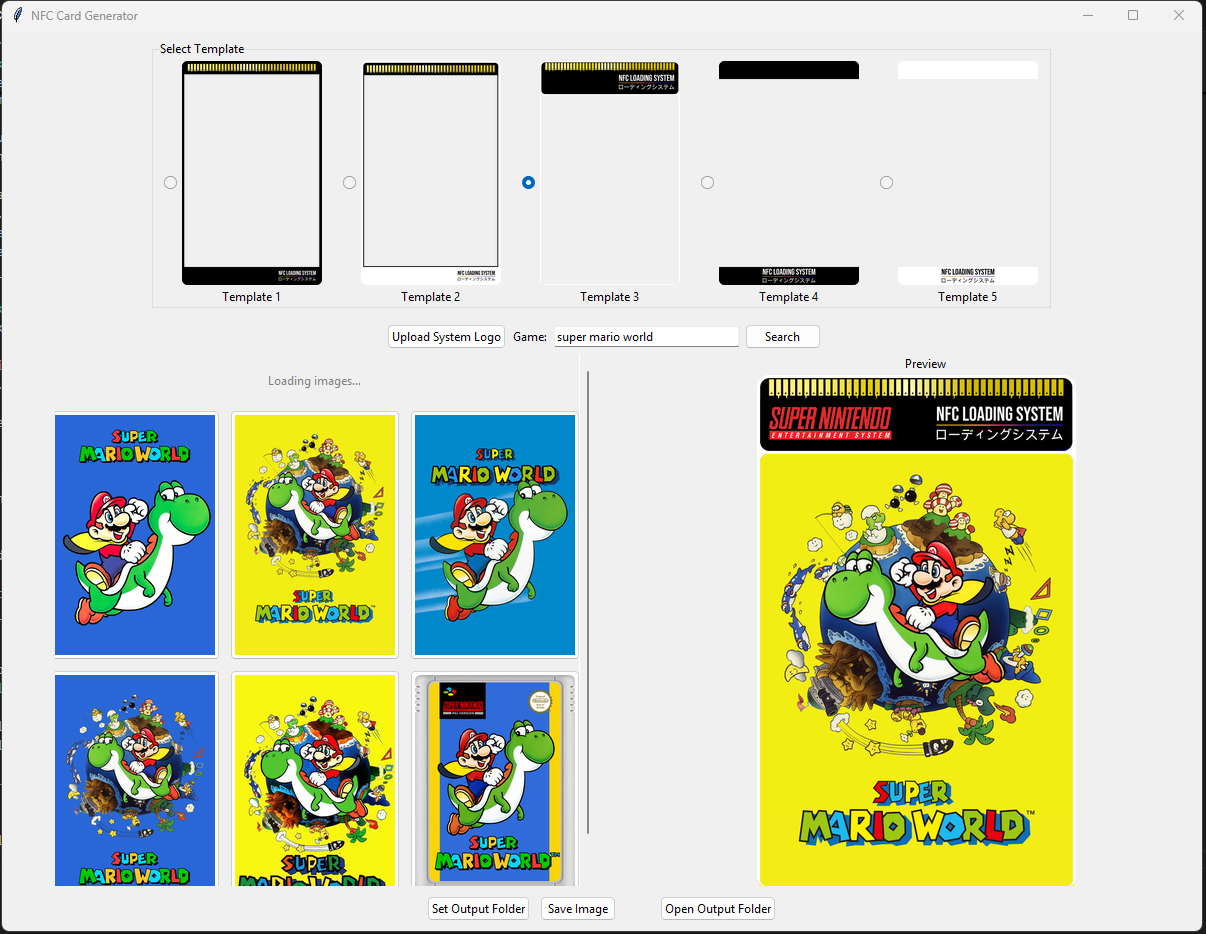
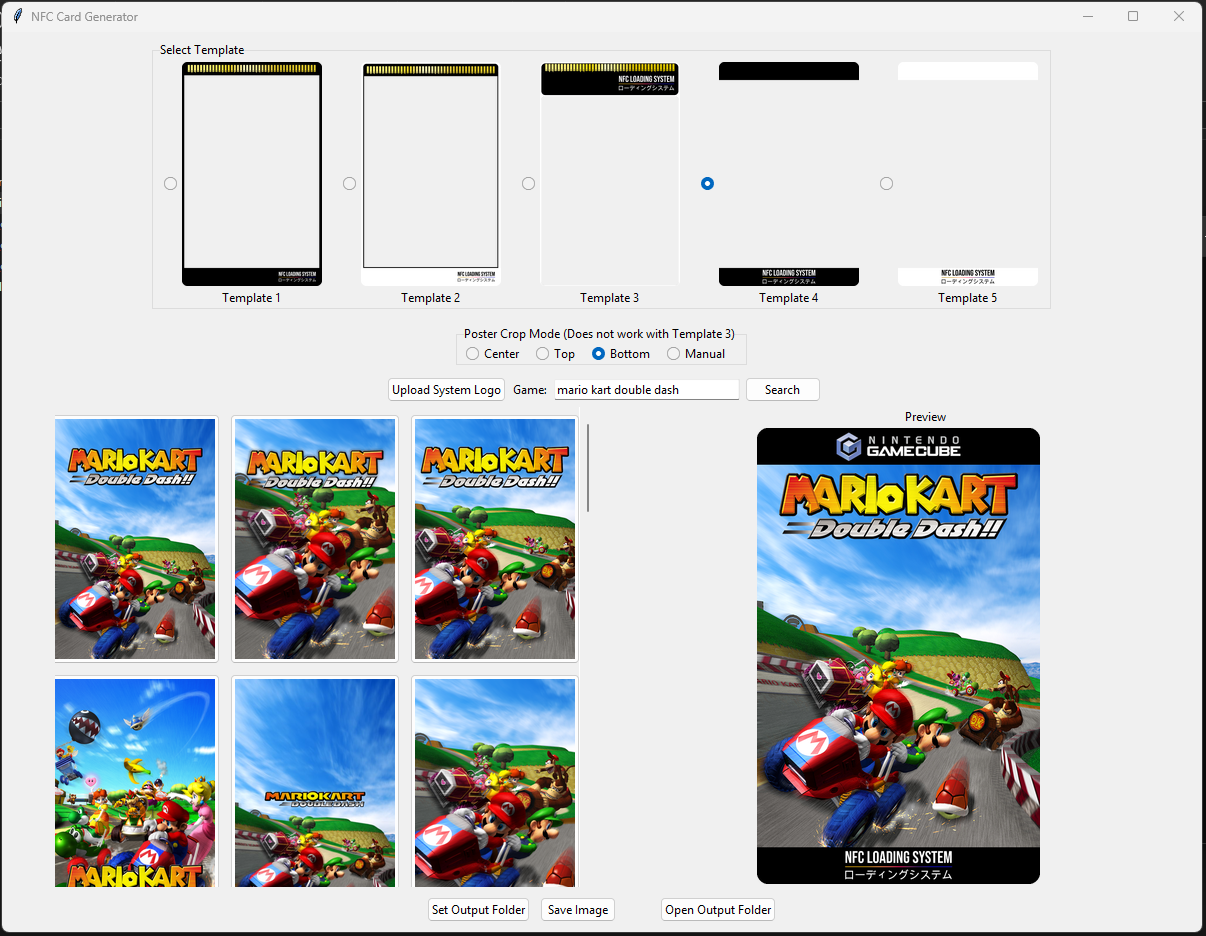
Added Cropping Position Feature
The app now lets you determine the cropping position of the game image.

This does not work yet for Template 3 as template 3 uses a frame because of the rounded corners of the game image. I am working on a fix.

diff --git a/nfc-card-generator.py b/nfc-card-generator.py
@@ -19,7 +19,6 @@ CONFIG_FILE = "config.json"
 CLEAR_W = 609
 CLEAR_H = 840
 
-# Template 4 / 5 exact clear area
 T4_POSTER_W = 619
 T4_POSTER_H = 834
 T4_POSTER_Y = 80
@@ -31,14 +30,12 @@ TEMPLATES = {
         "footer": {"height": 90, "logo_height": 46, "logo_margin": 25},
         "mode": "framed"
     },
-
     "Template 2": {
         "image_path": "templates/template_2.png",
         "center": {"x": 14, "y": 63, "w": 591, "h": 849},
         "footer": {"height": 90, "logo_height": 46, "logo_margin": 25},
         "mode": "framed"
     },
-
     "Template 3": {
         "image_path": "templates/template_3.png",
         "poster_y": 120,
@@ -50,24 +47,14 @@ TEMPLATES = {
         },
         "mode": "layered"
     },
-
-    # TEMPLATE 4 – FINAL (Color Scheme A)
     "Template 4": {
         "image_path": "templates/template_4.png",
-        "header_logo": {
-            "max_height": 62,
-            "top_margin": 10
-        },
+        "header_logo": {"max_height": 62, "top_margin": 10},
         "mode": "framed-top-logo"
     },
-
-    # TEMPLATE 5 – CLONE OF TEMPLATE 4 (Color Scheme B)
     "Template 5": {
         "image_path": "templates/template_5.png",
-        "header_logo": {
-            "max_height": 62,
-            "top_margin": 10
-        },
+        "header_logo": {"max_height": 62, "top_margin": 10},
         "mode": "framed-top-logo"
     }
 }
@@ -139,16 +126,31 @@ def get_grids(game_id):
 
 def cover_image(img, w, h):
     ratio = max(w / img.width, h / img.height)
-    resized = img.resize((int(img.width * ratio), int(img.height * ratio)), Image.LANCZOS)
-    x = (resized.width - w) // 2
-    y = (resized.height - h) // 2
-    return resized.crop((x, y, x + w, y + h))
+    r = img.resize((int(img.width * ratio), int(img.height * ratio)), Image.LANCZOS)
+    x = (r.width - w) // 2
+    y = (r.height - h) // 2
+    return r.crop((x, y, x + w, y + h))
 
-def cover_image_top_aligned(img, w, h):
+def cover_image_top(img, w, h):
     ratio = max(w / img.width, h / img.height)
-    resized = img.resize((int(img.width * ratio), int(img.height * ratio)), Image.LANCZOS)
-    x = (resized.width - w) // 2
-    return resized.crop((x, 0, x + w, h))
+    r = img.resize((int(img.width * ratio), int(img.height * ratio)), Image.LANCZOS)
+    x = (r.width - w) // 2
+    return r.crop((x, 0, x + w, h))
+
+def cover_image_bottom(img, w, h):
+    ratio = max(w / img.width, h / img.height)
+    r = img.resize((int(img.width * ratio), int(img.height * ratio)), Image.LANCZOS)
+    x = (r.width - w) // 2
+    y = r.height - h
+    return r.crop((x, y, x + w, y + h))
+
+def cover_image_manual(img, w, h, offset):
+    ratio = max(w / img.width, h / img.height)
+    r = img.resize((int(img.width * ratio), int(img.height * ratio)), Image.LANCZOS)
+    x = (r.width - w) // 2
+    max_y = r.height - h
+    y = max(0, min(max_y, int(offset)))
+    return r.crop((x, y, x + w, y + h))
 
 def fit_to_width(img, target_width):
     scale = target_width / img.width
@@ -167,7 +169,7 @@ def apply_header_logo(base, logo_path, cfg):
     h = cfg["header_logo"]
     scale = h["height"] / logo.height
     logo = logo.resize((int(logo.width * scale), h["height"]), Image.LANCZOS)
-    if logo.width > h.get("max_width", logo.width):
+    if logo.width > h["max_width"]:
         scale = h["max_width"] / logo.width
         logo = logo.resize((h["max_width"], int(logo.height * scale)), Image.LANCZOS)
     base.paste(logo, (h["left_margin"], h["top_margin"]), logo)
@@ -194,6 +196,9 @@ class App(tk.Tk):
         self.output_image = None
         self.output_dir = load_output_dir()
         self.template_var = tk.StringVar(value="Template 1")
+        self.crop_mode = tk.StringVar(value="center")
+        self.crop_offset = tk.IntVar(value=0)
+
         self.selected_poster_image = None
         self.current_game_title = None
 
@@ -243,10 +248,7 @@ class App(tk.Tk):
 
         for name, cfg in TEMPLATES.items():
             img = Image.open(cfg["image_path"])
-            img = img.resize(
-                (TEMPLATE_THUMB_W, int(TEMPLATE_THUMB_W * img.height / img.width)),
-                Image.LANCZOS
-            )
+            img = img.resize((TEMPLATE_THUMB_W, int(TEMPLATE_THUMB_W * img.height / img.width)), Image.LANCZOS)
             tk_img = ImageTk.PhotoImage(img)
             self.template_imgs[name] = tk_img
 
@@ -260,8 +262,37 @@ class App(tk.Tk):
                 command=self.render_with_current_template
             ).pack(side="left", padx=8)
 
+    def build_crop_controls(self):
+        frame = ttk.LabelFrame(self, text="Poster Crop Mode (Does not work with Template 3)")
+        frame.pack(pady=6)
+
+        for m in ("center", "top", "bottom", "manual"):
+            ttk.Radiobutton(
+                frame,
+                text=m.capitalize(),
+                value=m,
+                variable=self.crop_mode,
+                command=self.render_with_current_template
+            ).pack(side="left", padx=6)
+
+        self.crop_slider = ttk.Scale(
+            frame,
+            from_=0,
+            to=1000,
+            orient="horizontal",
+            variable=self.crop_offset,
+            command=lambda e: self.render_with_current_template()
+        )
+
+    def update_crop_ui(self):
+        if self.crop_mode.get() == "manual":
+            self.crop_slider.pack(fill="x", padx=10)
+        else:
+            self.crop_slider.pack_forget()
+
     def build_ui(self):
         self.build_template_selector()
+        self.build_crop_controls()
 
         controls = ttk.Frame(self)
         controls.pack(pady=5)
@@ -321,8 +352,20 @@ class App(tk.Tk):
     # -------- RENDER --------
 
     def render_with_current_template(self):
+        self.update_crop_ui()
+
         cfg = TEMPLATES[self.template_var.get()]
         template_img = Image.open(cfg["image_path"]).convert("RGBA")
+
+        def crop(img, w, h):
+            mode = self.crop_mode.get()
+            if mode == "top":
+                return cover_image_top(img, w, h)
+            if mode == "bottom":
+                return cover_image_bottom(img, w, h)
+            if mode == "manual":
+                return cover_image_manual(img, w, h, self.crop_offset.get())
+            return cover_image(img, w, h)
 
         if cfg["mode"] == "layered":
             base = Image.new("RGBA", template_img.size, (0, 0, 0, 0))
@@ -336,18 +379,12 @@ class App(tk.Tk):
 
         elif cfg["mode"] == "framed-top-logo":
             base = template_img.copy()
-
-            if self.logo_path:
-                apply_top_center_logo(base, self.logo_path, cfg)
-
             if self.selected_poster_image:
-                poster = cover_image_top_aligned(
-                    self.selected_poster_image,
-                    T4_POSTER_W,
-                    T4_POSTER_H
-                )
+                poster = crop(self.selected_poster_image, T4_POSTER_W, T4_POSTER_H)
                 x = (base.width - T4_POSTER_W) // 2
                 base.paste(poster, (x, T4_POSTER_Y), poster)
+            if self.logo_path:
+                apply_top_center_logo(base, self.logo_path, cfg)
 
         else:
             base = template_img.copy()
@@ -355,7 +392,7 @@ class App(tk.Tk):
                 apply_footer_logo(base, self.logo_path, cfg)
             if self.selected_poster_image:
                 c = cfg["center"]
-                poster = cover_image(self.selected_poster_image, c["w"], c["h"])
+                poster = crop(self.selected_poster_image, c["w"], c["h"])
                 base.paste(poster, (c["x"], c["y"]), poster)
 
         self.output_image = base
